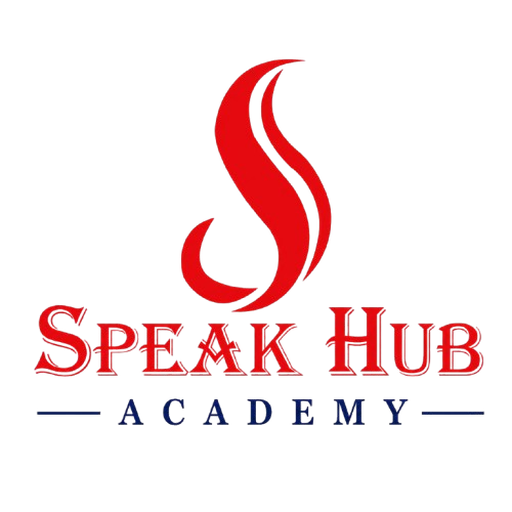
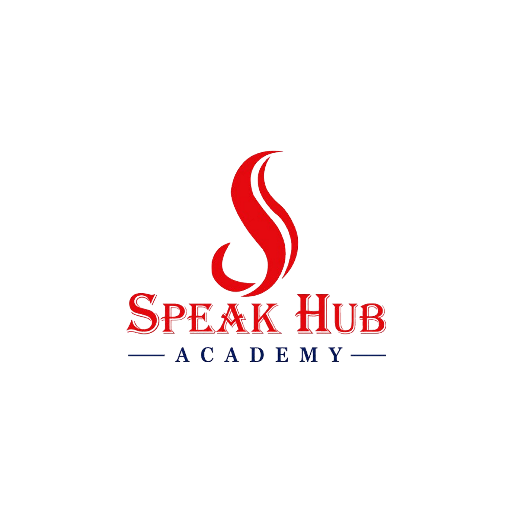
added image

diff --git a/scripts/generate-icons.js b/scripts/generate-icons.js
@@ -1,0 +1,114 @@
+const fs = require('fs');
+const path = require('path');
+const Jimp = require('../node_modules/jimp-compact');
+
+async function main() {
+  const imagesDir = path.resolve(__dirname, '../assets/images');
+  const backupDir = path.join(imagesDir, 'backup_icons');
+
+  if (!fs.existsSync(backupDir)) {
+    fs.mkdirSync(backupDir, { recursive: true });
+  }
+
+  const filesToBackup = [
+    'playstore_icon_512.png',
+    'icon.png',
+    'android-icon-foreground.png',
+    'android-icon-background.png',
+    'favicon.png'
+  ];
+
+  for (const file of filesToBackup) {
+    const src = path.join(imagesDir, file);
+    if (fs.existsSync(src)) {
+      fs.copyFileSync(src, path.join(backupDir, file));
+      console.log(`Backed up ${file} -> backup_icons/${file}`);
+    }
+  }
+
+  // Read the original transparent high-res logo
+  const logoPath = path.join(imagesDir, 'logo.png');
+  const logo = await Jimp.read(logoPath);
+
+  // Compute tight non-transparent bounding box
+  let minX = logo.bitmap.width, maxX = 0, minY = logo.bitmap.height, maxY = 0;
+  logo.scan(0, 0, logo.bitmap.width, logo.bitmap.height, (x, y, idx) => {
+    const alpha = logo.bitmap.data[idx + 3];
+    if (alpha > 20) {
+      if (x < minX) minX = x;
+      if (x > maxX) maxX = x;
+      if (y < minY) minY = y;
+      if (y > maxY) maxY = y;
+    }
+  });
+
+  const tightWidth = maxX - minX + 1;
+  const tightHeight = maxY - minY + 1;
+  console.log(`Detected logo tight bounds: (${minX}, ${minY}) ${tightWidth}x${tightHeight}`);
+
+  const tightLogo = logo.clone().crop(minX, minY, tightWidth, tightHeight);
+
+  // Optimal width: 260px (proportional height ~212px)
+  // Perfectly fits within Android 66% circle safe-zone (338px diameter) with 0 pixels clipped,
+  // and leaves 24.6% padding on all sides for Google Play 20% squircle mask.
+  const targetWidth = 260;
+  const scaledLogo = tightLogo.clone().resize(targetWidth, Jimp.AUTO, Jimp.RESIZE_BICUBIC);
+  const sw = scaledLogo.bitmap.width;
+  const sh = scaledLogo.bitmap.height;
+  const posX = Math.round((512 - sw) / 2);
+  const posY = Math.round((512 - sh) / 2);
+
+  console.log(`Scaled logo: ${sw}x${sh}, Centered at (${posX}, ${posY})`);
+
+  // 1. playstore_icon_512.png (512x512, solid white full-bleed)
+  const playstoreIcon = new Jimp(512, 512, 0xFFFFFFFF);
+  playstoreIcon.composite(scaledLogo, posX, posY);
+  await playstoreIcon.writeAsync(path.join(imagesDir, 'playstore_icon_512.png'));
+  console.log('✓ Created playstore_icon_512.png (512x512, solid white background)');
+
+  // 2. icon.png (512x512, solid white background for general/iOS/fallback)
+  const appIcon = new Jimp(512, 512, 0xFFFFFFFF);
+  appIcon.composite(scaledLogo, posX, posY);
+  await appIcon.writeAsync(path.join(imagesDir, 'icon.png'));
+  console.log('✓ Created icon.png (512x512, solid white background)');
+
+  // 3. android-icon-foreground.png (512x512, transparent background for Adaptive Icon)
+  const androidFg = new Jimp(512, 512, 0x00000000);
+  androidFg.composite(scaledLogo, posX, posY);
+  await androidFg.writeAsync(path.join(imagesDir, 'android-icon-foreground.png'));
+  console.log('✓ Created android-icon-foreground.png (512x512, transparent background, safe-zone centered)');
+
+  // 4. android-icon-background.png (512x512, solid white)
+  const androidBg = new Jimp(512, 512, 0xFFFFFFFF);
+  await androidBg.writeAsync(path.join(imagesDir, 'android-icon-background.png'));
+  console.log('✓ Created android-icon-background.png (512x512, solid white)');
+
+  // 5. favicon.png (512x512, crisp white background)
+  const favicon = new Jimp(512, 512, 0xFFFFFFFF);
+  favicon.composite(scaledLogo, posX, posY);
+  await favicon.writeAsync(path.join(imagesDir, 'favicon.png'));
+  console.log('✓ Created favicon.png in mobile (512x512, solid white)');
+
+  // 6. Update speakhub-web favicon.png as well
+  const webFaviconPath = path.resolve(__dirname, '../../speakhub-web/public/favicon.png');
+  if (fs.existsSync(path.dirname(webFaviconPath))) {
+    await favicon.writeAsync(webFaviconPath);
+    console.log('✓ Updated speakhub-web/public/favicon.png');
+  }
+
+  // Verification
+  let cut = 0;
+  androidFg.scan(0, 0, 512, 512, (x, y, idx) => {
+    if (androidFg.bitmap.data[idx + 3] > 30) {
+      const dx = x - 256;
+      const dy = y - 256;
+      if (Math.hypot(dx, dy) > 169) cut++;
+    }
+  });
+  console.log(`Adaptive icon mask verification: ${cut} cut pixels (should be 0).`);
+}
+
+main().catch(err => {
+  console.error('Error generating icons:', err);
+  process.exit(1);
+});
